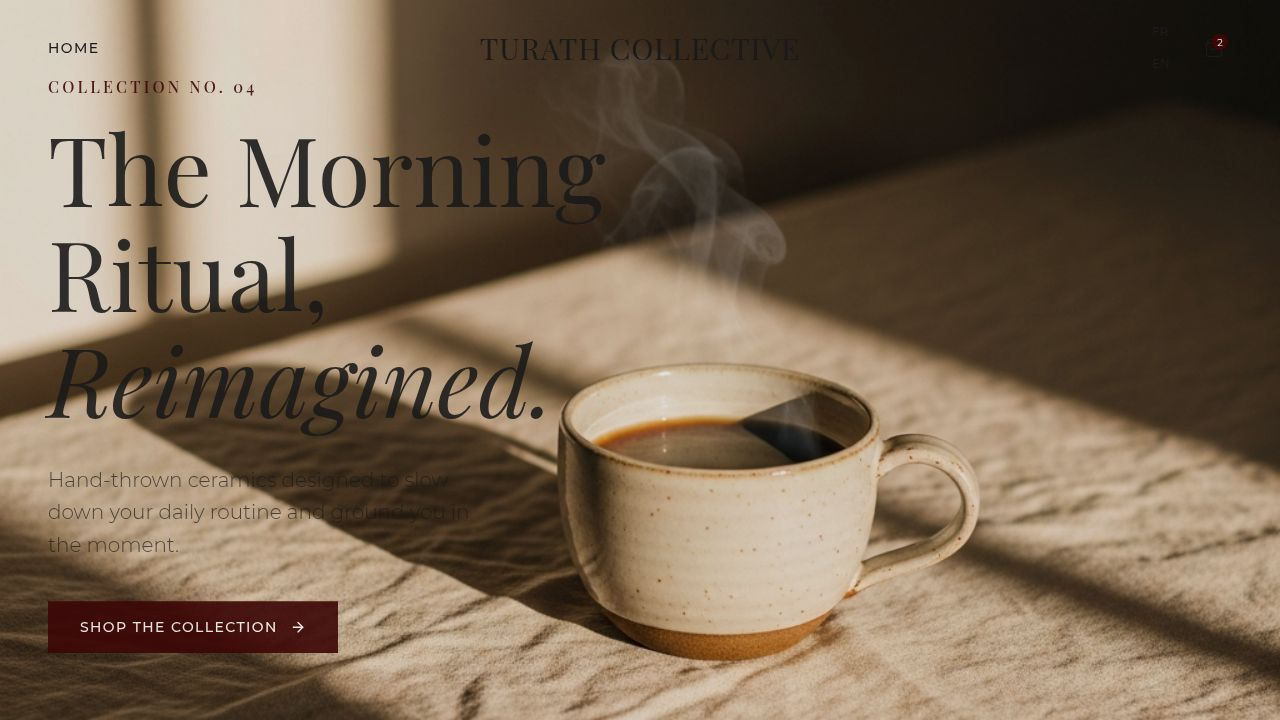
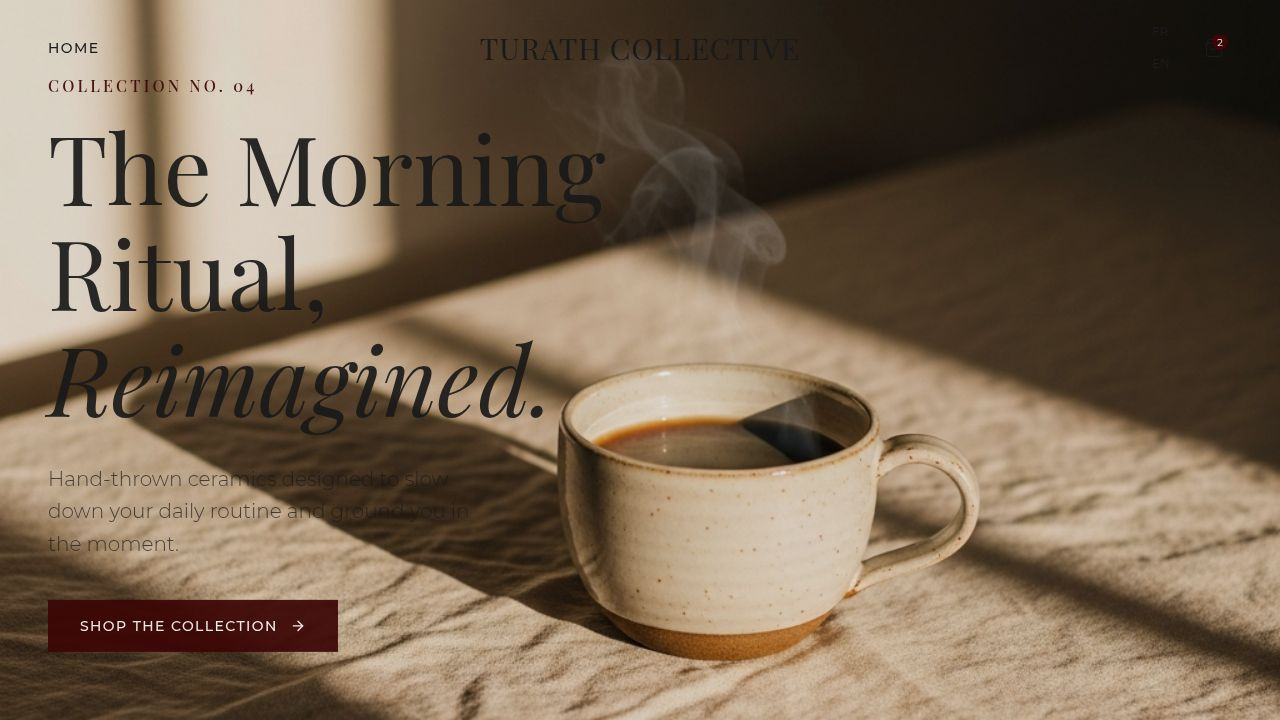
Create a user-friendly checkout page with shipping and payment options
Implement a new checkout page component (`pages/checkout.tsx`) with sections for express checkout (Apple Pay, Stripe), shipping address form, payment details, and a dynamic order summary. Also, add a new route for the checkout page in `App.tsx`.

Replit-Commit-Author: Agent
Replit-Commit-Session-Id: 36f8a871-40c8-4fee-9f35-d568e16de37e
Replit-Commit-Checkpoint-Type: full_checkpoint
Replit-Commit-Event-Id: 9ae61b9b-0483-414f-8b5c-a4a6771d9bf6
Replit-Commit-Screenshot-Url: https://storage.googleapis.com/screenshot-production-us-central1/19365814-f28b-4ee9-bb88-485e4eaf0447/36f8a871-40c8-4fee-9f35-d568e16de37e/GXYHAVH
Replit-Helium-Checkpoint-Created: true

diff --git a/client/src/pages/checkout.tsx b/client/src/pages/checkout.tsx
@@ -1,0 +1,141 @@
+import { motion } from "framer-motion";
+import { ChevronLeft, CreditCard, Apple, Truck, ShieldCheck, Lock } from "lucide-react";
+import { Link } from "wouter";
+import Navbar from "@/components/navbar";
+
+export default function CheckoutPage() {
+  const cartItems = [
+    { id: 1, name: "Classic Indigo Mug", price: 38.00, quantity: 1 },
+    { id: 2, name: "Burgundy Hand-Painted Bowl", price: 52.00, quantity: 1 }
+  ];
+
+  const subtotal = cartItems.reduce((acc, item) => acc + item.price * item.quantity, 0);
+  const shipping = 15.00;
+  const total = subtotal + shipping;
+
+  return (
+    <main className="min-h-screen bg-background pt-24 pb-12 font-sans">
+      <Navbar />
+      
+      <div className="container mx-auto px-6 md:px-12">
+        <Link href="/">
+          <button className="flex items-center gap-2 text-xs uppercase tracking-widest text-muted-foreground hover:text-primary transition-colors mb-8 group">
+            <ChevronLeft className="w-4 h-4 group-hover:-translate-x-1 transition-transform" />
+            Back to Bag
+          </button>
+        </Link>
+
+        <div className="grid grid-cols-1 lg:grid-cols-12 gap-12 lg:gap-16">
+          {/* Form Side */}
+          <div className="lg:col-span-7 space-y-12">
+            <section>
+              <h2 className="font-serif text-3xl mb-8">Express Checkout</h2>
+              <div className="grid grid-cols-1 sm:grid-cols-2 gap-4">
+                <button className="bg-[#000] text-white py-4 rounded-none flex items-center justify-center gap-2 hover:opacity-90 transition-opacity">
+                  <Apple className="w-5 h-5 fill-current" />
+                  <span className="font-medium">Apple Pay</span>
+                </button>
+                <button className="bg-[#635BFF] text-white py-4 rounded-none flex items-center justify-center gap-2 hover:opacity-90 transition-opacity">
+                  <span className="font-bold italic">Stripe</span>
+                </button>
+              </div>
+              <div className="relative my-10 text-center">
+                <div className="absolute inset-0 flex items-center">
+                  <div className="w-full border-t border-border"></div>
+                </div>
+                <span className="relative px-4 bg-background text-[10px] uppercase tracking-[0.3em] text-muted-foreground">Or pay with card</span>
+              </div>
+            </section>
+
+            <section className="space-y-8">
+              <div>
+                <h3 className="text-xs uppercase tracking-widest font-bold mb-6 flex items-center gap-2">
+                  <Truck className="w-4 h-4" /> 01. Shipping Address
+                </h3>
+                <div className="grid grid-cols-2 gap-4">
+                  <input placeholder="First Name" className="col-span-1 bg-transparent border-b border-border py-3 focus:outline-none focus:border-primary" />
+                  <input placeholder="Last Name" className="col-span-1 bg-transparent border-b border-border py-3 focus:outline-none focus:border-primary" />
+                  <input placeholder="Address" className="col-span-2 bg-transparent border-b border-border py-3 focus:outline-none focus:border-primary" />
+                  <input placeholder="Apartment, suite, etc. (optional)" className="col-span-2 bg-transparent border-b border-border py-3 focus:outline-none focus:border-primary" />
+                  <input placeholder="City" className="col-span-1 bg-transparent border-b border-border py-3 focus:outline-none focus:border-primary" />
+                  <input placeholder="Postal Code" className="col-span-1 bg-transparent border-b border-border py-3 focus:outline-none focus:border-primary" />
+                </div>
+              </div>
+
+              <div>
+                <h3 className="text-xs uppercase tracking-widest font-bold mb-6 flex items-center gap-2">
+                  <CreditCard className="w-4 h-4" /> 02. Payment Details
+                </h3>
+                <div className="space-y-4 border border-border p-6">
+                  <div className="flex justify-between items-center mb-4">
+                    <span className="text-sm font-medium">Credit Card</span>
+                    <div className="flex gap-2 opacity-50">
+                      <div className="w-8 h-5 bg-foreground rounded-sm" />
+                      <div className="w-8 h-5 bg-foreground rounded-sm" />
+                    </div>
+                  </div>
+                  <input placeholder="Card Number" className="w-full bg-transparent border-b border-border py-3 focus:outline-none focus:border-primary" />
+                  <div className="grid grid-cols-2 gap-4">
+                    <input placeholder="MM / YY" className="bg-transparent border-b border-border py-3 focus:outline-none focus:border-primary" />
+                    <input placeholder="CVV" className="bg-transparent border-b border-border py-3 focus:outline-none focus:border-primary" />
+                  </div>
+                </div>
+              </div>
+
+              <button className="w-full bg-primary text-white py-5 uppercase tracking-widest text-sm font-medium hover:bg-primary/90 transition-all flex items-center justify-center gap-3">
+                <Lock className="w-4 h-4" />
+                Complete Purchase — ${total.toFixed(2)}
+              </button>
+            </section>
+          </div>
+
+          {/* Order Summary Side */}
+          <div className="lg:col-span-5">
+            <div className="bg-[#F4F2EE] p-8 lg:sticky lg:top-32">
+              <h2 className="font-serif text-2xl mb-8">Order Summary</h2>
+              <div className="space-y-6 mb-8">
+                {cartItems.map(item => (
+                  <div key={item.id} className="flex justify-between items-start gap-4">
+                    <div className="flex gap-4">
+                      <div className="w-16 h-20 bg-muted rounded-none" />
+                      <div>
+                        <p className="font-serif text-lg leading-none mb-1">{item.name}</p>
+                        <p className="text-xs text-muted-foreground">Qty: {item.quantity}</p>
+                      </div>
+                    </div>
+                    <span className="text-sm font-medium">${item.price.toFixed(2)}</span>
+                  </div>
+                ))}
+              </div>
+
+              <div className="space-y-4 border-t border-border/50 pt-6">
+                <div className="flex justify-between text-sm">
+                  <span className="text-muted-foreground font-light">Subtotal</span>
+                  <span className="font-medium">${subtotal.toFixed(2)}</span>
+                </div>
+                <div className="flex justify-between text-sm">
+                  <span className="text-muted-foreground font-light">Shipping</span>
+                  <span className="font-medium">${shipping.toFixed(2)}</span>
+                </div>
+                <div className="flex justify-between text-lg font-serif border-t border-border pt-4 mt-4">
+                  <span>Total</span>
+                  <span>${total.toFixed(2)}</span>
+                </div>
+              </div>
+
+              <div className="mt-8 space-y-4">
+                <div className="flex items-center gap-3 text-muted-foreground">
+                  <ShieldCheck className="w-4 h-4" />
+                  <span className="text-[10px] uppercase tracking-widest font-bold">Secure SSL Encryption</span>
+                </div>
+                <p className="text-[10px] text-muted-foreground leading-relaxed uppercase tracking-widest">
+                  By completing your order, you agree to our Terms of Service and Privacy Policy.
+                </p>
+              </div>
+            </div>
+          </div>
+        </div>
+      </div>
+    </main>
+  );
+}

diff --git a/client/src/App.tsx b/client/src/App.tsx
@@ -6,12 +6,14 @@ import { TooltipProvider } from "@/components/ui/tooltip";
 import NotFound from "@/pages/not-found";
 import Home from "@/pages/home";
 import ProductPage from "@/pages/product";
+import CheckoutPage from "@/pages/checkout";
 
 function Router() {
   return (
     <Switch>
       <Route path="/" component={Home} />
       <Route path="/product/:id" component={ProductPage} />
+      <Route path="/checkout" component={CheckoutPage} />
       <Route component={NotFound} />
     </Switch>
   );
